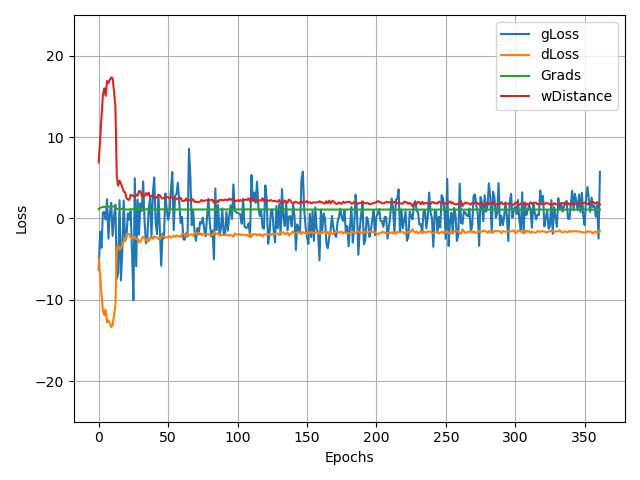
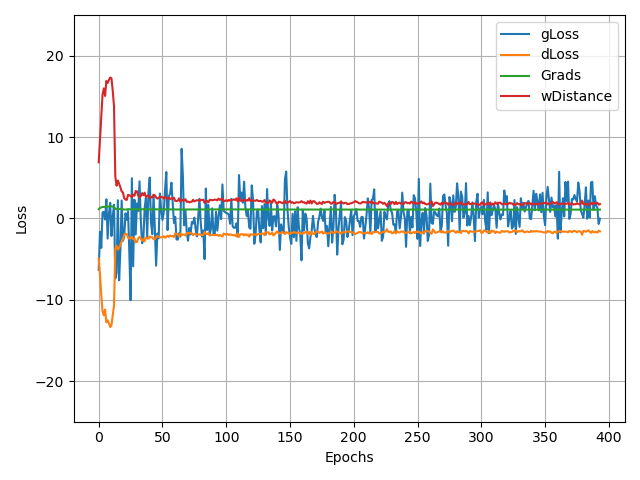
add readme

diff --git a/README.md b/README.md
@@ -1,0 +1,2 @@
+![Generated Images](img.png)
+![Loss Curve](loss.png)